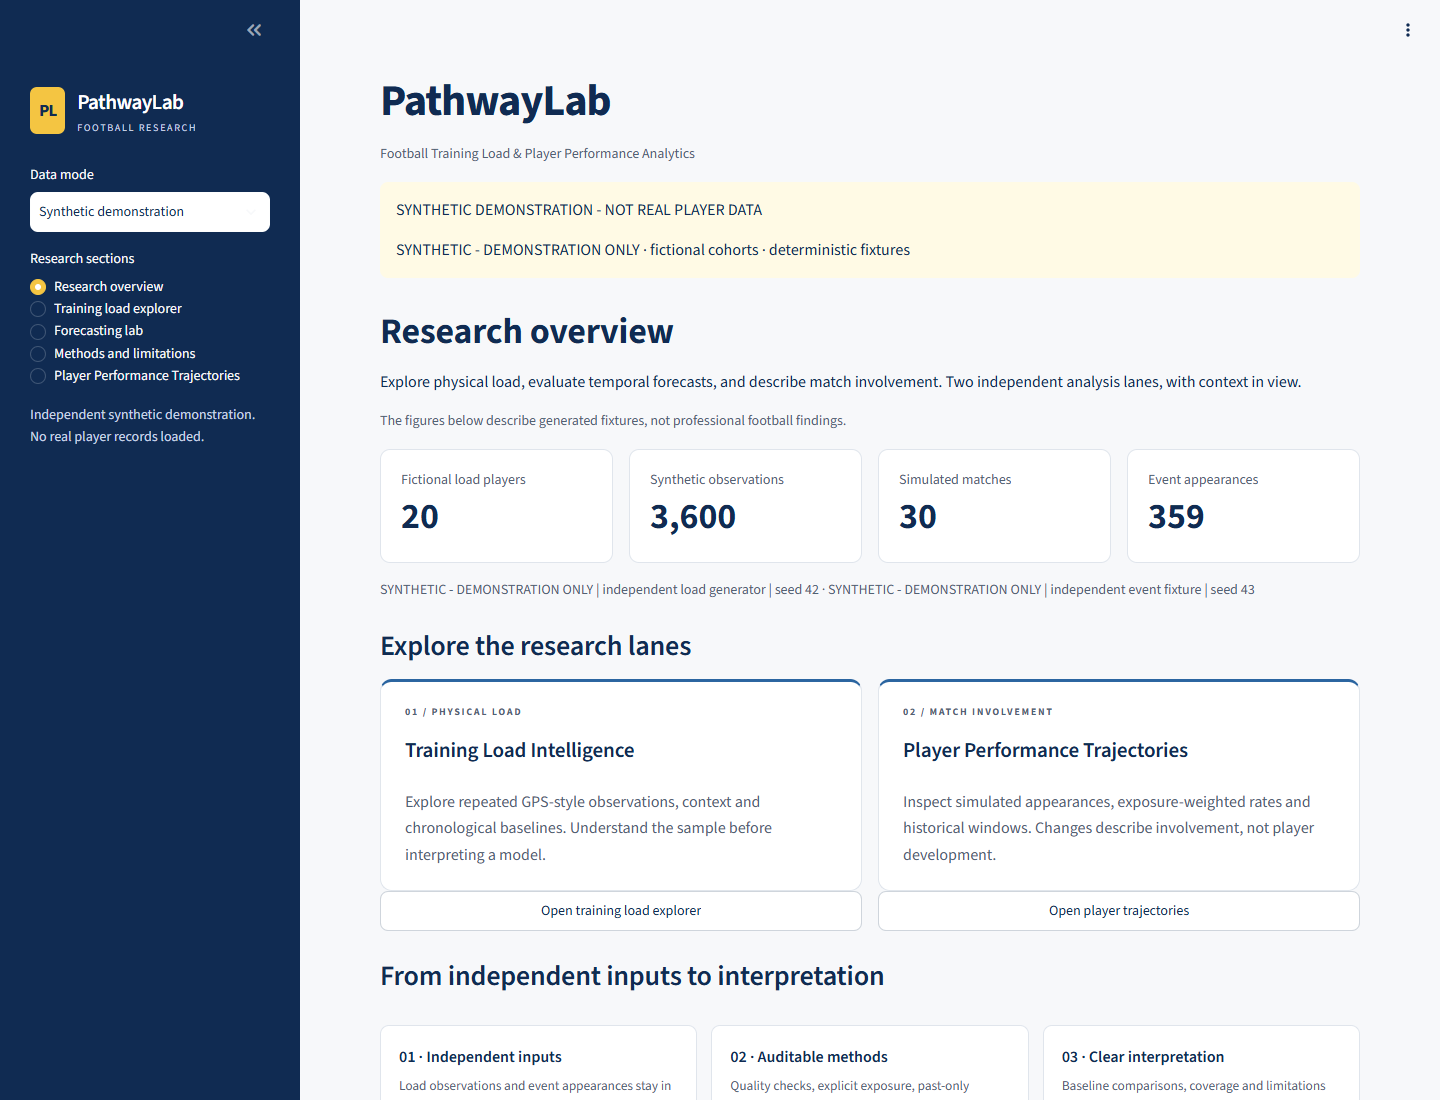
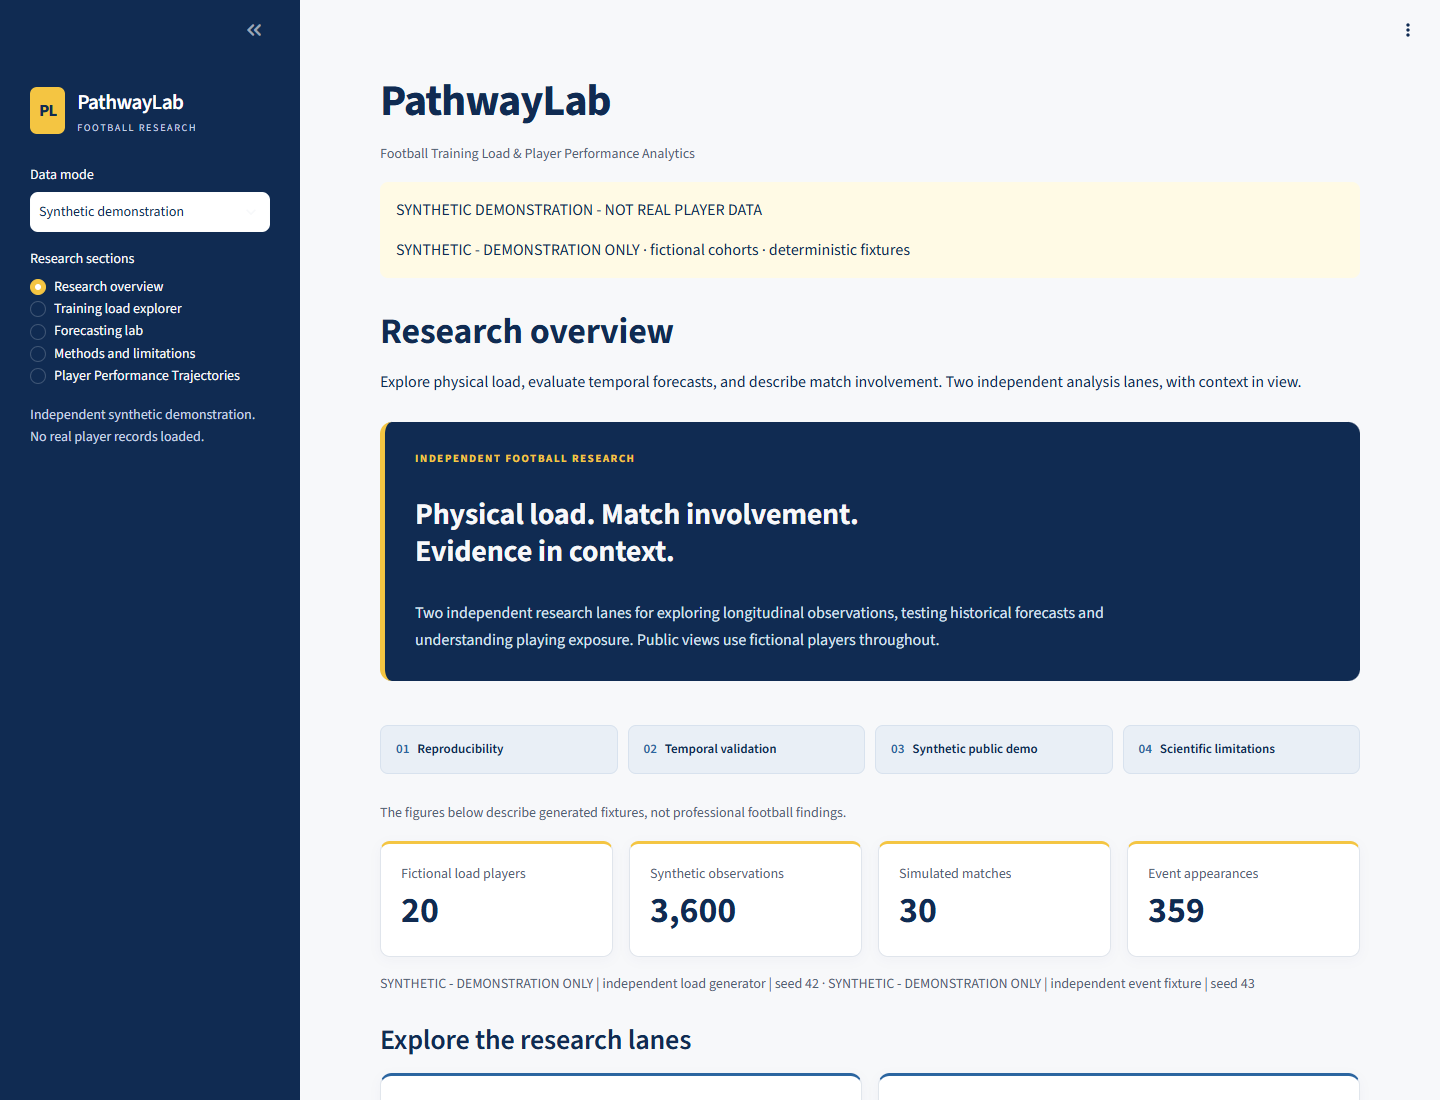
Polish research workspace hierarchy and visual identity

Changed region(s): [[0.25, 0.3709, 0.9688, 0.8964], [0.25, 0.9273, 0.6875, 1.0], [0.7188, 0.9582, 0.9375, 1.0]]

diff --git a/src/pathwaylab/demo_dashboard.py b/src/pathwaylab/demo_dashboard.py
@@ -15,7 +15,14 @@ from .demo_data import (
     load_cohort,
 )
 from .eda import NAMES, UNITS
-from .presentation import chart, footer, module_card, section_intro
+from .presentation import (
+    chart,
+    footer,
+    forecast_workflow,
+    module_card,
+    research_hero,
+    section_intro,
+)
 
 
 @st.cache_data(show_spinner=False)
@@ -52,6 +59,7 @@ def overview(loads: pd.DataFrame, events: pd.DataFrame) -> None:
         "Explore physical load, evaluate temporal forecasts, and "
         "describe match involvement. Two independent analysis lanes, with context in view.",
     )
+    research_hero()
     st.caption("The figures below describe generated fixtures, not professional football findings.")
     for col, label, value in zip(
         st.columns(4),
@@ -144,29 +152,32 @@ def explorer(loads: pd.DataFrame) -> None:
         "Use the filters to distinguish coverage from load variation.",
     )
     training = loads.loc[loads.md_day.ne(0)]
-    controls = st.columns([1.2, 1.2, 2])
-    with controls[0]:
-        metric = st.selectbox(
-            "Physical-load measure",
-            list(NAMES),
-            index=1,
-            format_func=lambda k: f"{NAMES[k]} ({UNITS[k]})",
+    with st.container(border=True, key="load_controls"):
+        st.markdown("#### Observation controls")
+        st.caption("Choose fictional players, a physical measure and an observation window.")
+        controls = st.columns([1.2, 1.2, 2])
+        with controls[0]:
+            metric = st.selectbox(
+                "Physical-load measure",
+                list(NAMES),
+                index=1,
+                format_func=lambda k: f"{NAMES[k]} ({UNITS[k]})",
+            )
+        with controls[1]:
+            positions = st.multiselect(
+                "Fictional positions",
+                sorted(training.position.unique()),
+                default=sorted(training.position.unique()),
+            )
+        with controls[2]:
+            dates = st.date_input(
+                "Date range", (training.date.min().date(), training.date.max().date())
+            )
+        players = st.multiselect(
+            "Fictional load players",
+            sorted(training.player_id.unique()),
+            default=sorted(training.player_id.unique())[:4],
         )
-    with controls[1]:
-        positions = st.multiselect(
-            "Fictional positions",
-            sorted(training.position.unique()),
-            default=sorted(training.position.unique()),
-        )
-    with controls[2]:
-        dates = st.date_input(
-            "Date range", (training.date.min().date(), training.date.max().date())
-        )
-    players = st.multiselect(
-        "Fictional load players",
-        sorted(training.player_id.unique()),
-        default=sorted(training.player_id.unique())[:4],
-    )
     if len(dates) != 2:
         st.info("Choose a start and end date to display the observation window.")
         return
@@ -243,6 +254,7 @@ def forecasting(scores: pd.DataFrame, predictions: pd.DataFrame, protocol: dict)
         "Compare calculated synthetic forecasts on identical temporal "
         "holdout targets. Lower error means closer predictions in this toy example.",
     )
+    forecast_workflow()
     st.info(
         "Demo target: the next observed training block's cumulative HSR (synthetic microcycle). "
         "The separate real research targets one observed session; these metrics are not comparable."
@@ -326,17 +338,22 @@ def trajectories(events: pd.DataFrame) -> None:
         "appearances. Keep exposure and sample size beside each comparison.",
     )
     st.caption(EVENT_SOURCE + " · fictional EVENT IDs · unrelated to the load-demo cohort")
-    columns = st.columns([1.2, 1.6, 1])
-    with columns[0]:
-        player = st.selectbox("Fictional event player", sorted(events.player_id.unique()))
-    with columns[1]:
-        seasons = st.multiselect(
-            "Demo seasons", sorted(events.season.unique()), default=sorted(events.season.unique())
-        )
-    with columns[2]:
-        metric = st.selectbox(
-            "Event measure", ["passes", "shots", "carries", "tackles", "interceptions"]
-        )
+    with st.container(border=True, key="event_controls"):
+        st.markdown("#### Comparison controls")
+        st.caption("Select a fictional player and seasons. Rates always retain simulated exposure.")
+        columns = st.columns([1.2, 1.6, 1])
+        with columns[0]:
+            player = st.selectbox("Fictional event player", sorted(events.player_id.unique()))
+        with columns[1]:
+            seasons = st.multiselect(
+                "Demo seasons",
+                sorted(events.season.unique()),
+                default=sorted(events.season.unique()),
+            )
+        with columns[2]:
+            metric = st.selectbox(
+                "Event measure", ["passes", "shots", "carries", "tackles", "interceptions"]
+            )
     cohort = events.loc[events.season.isin(seasons)]
     view = cohort.loc[cohort.player_id.eq(player)]
     if view.empty:
@@ -420,7 +437,7 @@ def methods() -> None:
         "A useful research interface makes its assumptions as visible as its charts.",
     )
     tabs = st.tabs(["Research design", "Data boundaries", "Reproduce"])
-    with tabs[0]:
+    with tabs[0], st.container(border=True):
         st.markdown("### Three questions")
         st.write(
             "How does physical load vary within players? Do historical features forecast "
@@ -440,7 +457,7 @@ def methods() -> None:
             "and frozen pre-session plans. It requires approved matched data and governance; "
             "it has not been conducted."
         )
-    with tabs[1]:
+    with tabs[1], st.container(border=True):
         st.markdown("### Public demonstration")
         st.write(
             f"Independent deterministic generators, seeds {SEED} and {SEED + 1}. Load and "
@@ -464,7 +481,7 @@ def methods() -> None:
             "Source methods: Sierra-Casas et al. (2026), doi:10.3390/data11040084; "
             "StatsBomb Open Data specifications. No club affiliation or endorsement."
         )
-    with tabs[2]:
+    with tabs[2], st.container(border=True):
         st.code(
             "python -m pip install -e '.[dev,app,research]'\n"
             "pytest -q -m 'not integration'\npython -m pathwaylab.cli --mode demo\n"

diff --git a/src/pathwaylab/presentation.py b/src/pathwaylab/presentation.py
@@ -8,6 +8,8 @@ import streamlit as st
 NAVY = "#102B52"
 BLUE = "#2B65A0"
 YELLOW = "#F4C542"
+CANVAS = "#F7F8FA"
+SLATE = "#526173"
 
 
 def apply_theme() -> None:
@@ -15,6 +17,23 @@ def apply_theme() -> None:
     st.markdown(
         """<style>
     .stApp {background:#F7F8FA;}
+    [data-testid="stMain"] {background:#F7F8FA;}
+    [data-testid="stButton"] button {border-radius:8px;font-weight:600;}
+    [data-testid="stButton"] button:hover {border-color:#2B65A0;color:#102B52;}
+    .st-key-load_controls,.st-key-event_controls {
+      background:#EDF2F8!important;border-top:3px solid #2B65A0!important;
+      border-radius:12px;padding:20px!important;margin:12px 0 22px;}
+    .pl-hero {background:#102B52;border-left:5px solid #F4C542;border-radius:12px;
+      padding:28px 30px;margin:12px 0 24px;color:#F7F8FA;}
+    .pl-hero .pl-kicker {color:#F4C542;font-size:11px;font-weight:700;
+      letter-spacing:1.5px;text-transform:uppercase;}
+    .pl-hero h2 {color:#F7F8FA!important;font-size:30px;margin:12px 0;line-height:1.25;}
+    .pl-hero p {color:#D8E3F0;max-width:760px;line-height:1.7;margin:0;}
+    .pl-principles {display:grid;grid-template-columns:repeat(4,1fr);gap:10px;
+      margin:20px 0 28px;}
+    .pl-principle {background:#E9EFF6;border:1px solid #D8E2EE;border-radius:8px;
+      padding:13px 15px;color:#102B52;font-size:13px;font-weight:600;}
+    .pl-principle span {color:#2B65A0;margin-right:8px;}
     [data-testid="stMainBlockContainer"] {padding-top:2.4rem;max-width:1440px;}
     h1,h2,h3 {color:#102B52;letter-spacing:-.025em;}
     h1 {font-weight:750!important;} h2 {font-weight:680!important;}
@@ -29,6 +48,7 @@ def apply_theme() -> None:
       color:#102B52!important;-webkit-text-fill-color:#102B52!important;}
     [data-testid="stSidebar"] a {color:#F4C542;}
     [data-testid="stMetric"] {background:white;border:1px solid #E0E5EC;
+      border-top:3px solid #F4C542;box-shadow:0 3px 12px #102B5208;
       border-radius:10px;padding:18px 20px;min-height:110px;}
     [data-testid="stMetricLabel"] {color:#526173;font-size:.85rem;}
     [data-testid="stMetricValue"] {color:#102B52;font-weight:680;}
@@ -45,7 +65,8 @@ def apply_theme() -> None:
     .pl-brand strong {color:white;font-size:21px;letter-spacing:-.5px;}
     .pl-brand small {display:block;color:#C7D4E6;font-size:10px;letter-spacing:1.7px;}
     .pl-card {padding:22px 24px;border:1px solid #E0E5EC;border-radius:12px;
-      background:white;min-height:168px;border-top:3px solid #2B65A0;}
+      background:white;min-height:168px;border-top:3px solid #2B65A0;
+      box-shadow:0 3px 12px #102B5208;}
     .pl-card h3 {margin:6px 0 10px;font-size:21px;}
     .pl-card p {color:#526173;line-height:1.65;margin:0;}
     .pl-eyebrow {color:#526173;font-size:10px;letter-spacing:1.7px;font-weight:700;}
@@ -59,6 +80,9 @@ def apply_theme() -> None:
     @media(max-width:768px) {
       [data-testid="stMainBlockContainer"] {padding:1.6rem 1rem;}
       .pl-flow {grid-template-columns:1fr;}
+      .pl-principles {grid-template-columns:repeat(2,1fr);}
+      .pl-hero {padding:22px 20px;}
+      .pl-hero h2 {font-size:25px!important;}
       .pl-card {padding:18px;min-height:0;margin-bottom:12px;}
       [data-testid="stMetric"] {padding:14px 16px;min-height:94px;}
       h1 {font-size:2.2rem!important;} h2 {font-size:1.65rem!important;}
@@ -89,9 +113,53 @@ def module_card(number: str, title: str, description: str) -> None:
     )
 
 
+def research_hero() -> None:
+    """Frame the two independent modules without suggesting a linked population."""
+    st.markdown(
+        '<div class="pl-hero"><div class="pl-kicker">Independent football research</div>'
+        "<h2>Physical load. Match involvement.<br>Evidence in context.</h2>"
+        "<p>Two independent research lanes for exploring longitudinal observations, "
+        "testing historical forecasts and understanding playing exposure. "
+        "Public views use fictional players throughout.</p></div>",
+        unsafe_allow_html=True,
+    )
+    st.markdown(
+        '<div class="pl-principles">'
+        + "".join(
+            f'<div class="pl-principle"><span>{index:02d}</span>{label}</div>'
+            for index, label in enumerate(
+                [
+                    "Reproducibility",
+                    "Temporal validation",
+                    "Synthetic public demo",
+                    "Scientific limitations",
+                ],
+                1,
+            )
+        )
+        + "</div>",
+        unsafe_allow_html=True,
+    )
+
+
+def forecast_workflow() -> None:
+    """Present the existing evaluation protocol as a compact sequence."""
+    st.markdown(
+        '<div class="pl-flow">'
+        '<div class="pl-node"><b>01 · Historical inputs</b>'
+        "<small>Only earlier observed blocks enter features.</small></div>"
+        '<div class="pl-node"><b>02 · Shared cutoff</b>'
+        "<small>All fictional players share target-block boundaries.</small></div>"
+        '<div class="pl-node"><b>03 · Fair comparison</b>'
+        "<small>Score each model on the same held-out synthetic targets.</small></div>"
+        "</div>",
+        unsafe_allow_html=True,
+    )
+
+
 def chart(fig: go.Figure, source: str) -> None:
     """Apply consistent appearance while keeping source beside each chart."""
-    palette = [BLUE, "#D6A927", "#648AB4", "#8695A8", "#4E7867"]
+    palette = [BLUE, NAVY, "#B68B16", "#648AB4", "#8695A8"]
     groups: dict[str, str] = {}
     for trace in fig.data:
         color = groups.setdefault(str(trace.name), palette[len(groups) % len(palette)])

diff --git a/docs/UI_POLISH.md b/docs/UI_POLISH.md
@@ -1,0 +1,40 @@
+# Presentation update
+
+The five-section Streamlit app now uses a navy overview banner with a yellow edge,
+a four-part research-principles row, shaded load/event control panels, metric cards
+with restrained yellow accents, a compact forecast workflow and bordered methods
+tabs. Off-white canvas, white plot cards, subtle borders/shadows and system fonts
+provide structure. Charts use royal blue, navy, darker gold and neutral supporting
+colors. Gold is darker in charts for contrast; yellow remains the identity accent.
+No club logo or endorsement is implied.
+
+Implementation changes are limited to presentation.py and demo_dashboard.py.
+Calculations, generated observations, temporal splits and the public entrypoint's
+synthetic-only guard are unchanged. Both synthetic disclaimers remain visible.
+
+## Actual local verification
+
+- Original workspace: 64 tests passed in 88.39s.
+- Updated public fixture suite: 54 tests passed in 17.04s.
+- Full Ruff lint and format passed (42 workspace Python files).
+- Synthetic CLI, original source checksum verification and isolated ingestion QA passed.
+- Google Chrome 157.0.8103.39 / Streamlit 1.67.0: all five pages at 1440, 1280,
+  768 and 390 pixels; 20 page cases, 40 interaction checks, 36 genuine captures.
+- Tested dropdowns, date windows, model changes, hover tooltips, empty selections,
+  methods tabs, tables and mobile navigation. No page errors, page overflow or
+  recorded chart-title overruns. Representative desktop/tablet/mobile captures
+  were visually inspected. Owned test server stopped.
+- Existing safety regressions passed, including public-mode overrides and forbidden
+  research-reader spies. Protected research files and scientific functions unchanged.
+
+Selected screenshots under assets/screenshots are genuine synthetic captures of
+this update. Detailed logs and all captures remain local. This bounded Chrome
+review is not a screen-reader, physical-device or cross-browser certification.
+
+## Delivery
+
+The update is prepared in the separate data-free release repository. It requires
+a new push to the hosting branch and the normal Streamlit rebuild/redeploy before
+it appears publicly. This update does not claim a live deployment or live-browser
+verification. No deployed URL was available in the current task context. No major
+UI defect remained in the tested local cases.

diff --git a/README.md b/README.md
@@ -42,6 +42,9 @@ It does not predict injury, readiness, player potential or causal training effec
 
 The interface uses an independent navy/yellow visual identity, system fonts,
 responsive layouts and source captions. It uses no club logos or third-party imagery.
+The overview banner, research-principles row, shaded control panels and consistent
+metric cards give the workspace a restrained navy-and-yellow identity.
+See [presentation verification](docs/UI_POLISH.md) for the prepared update's checks.
 
 ## Architecture
 
